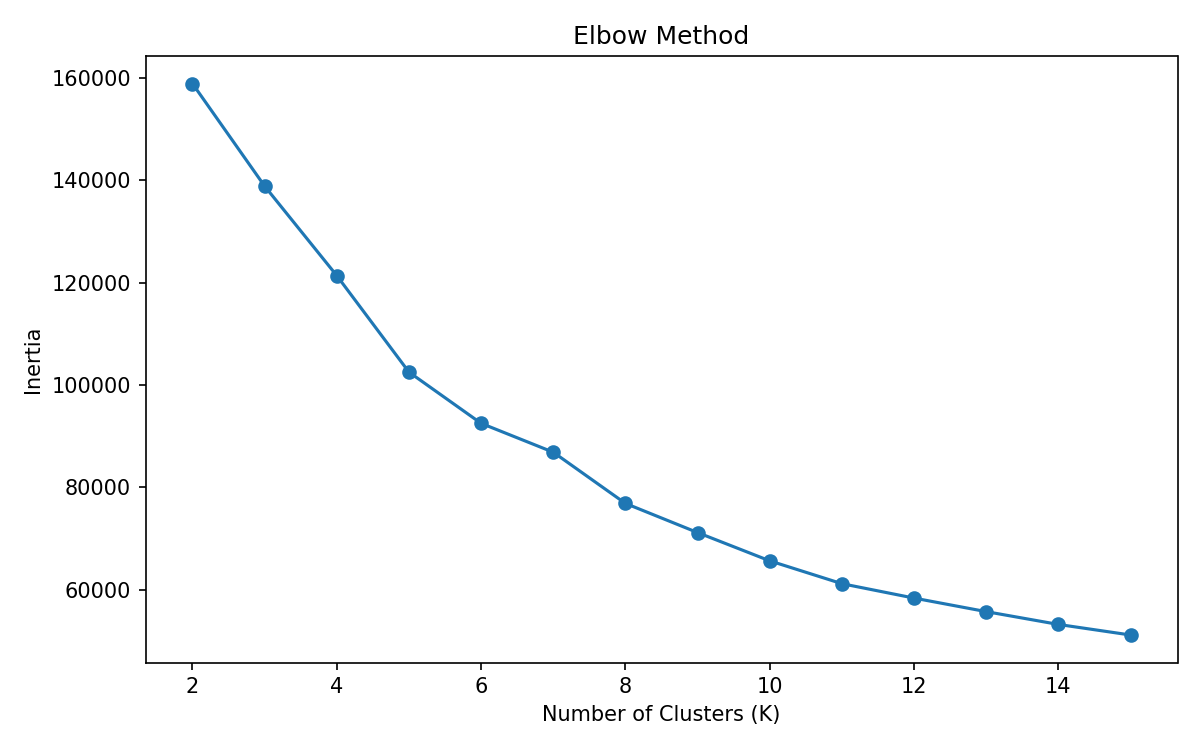
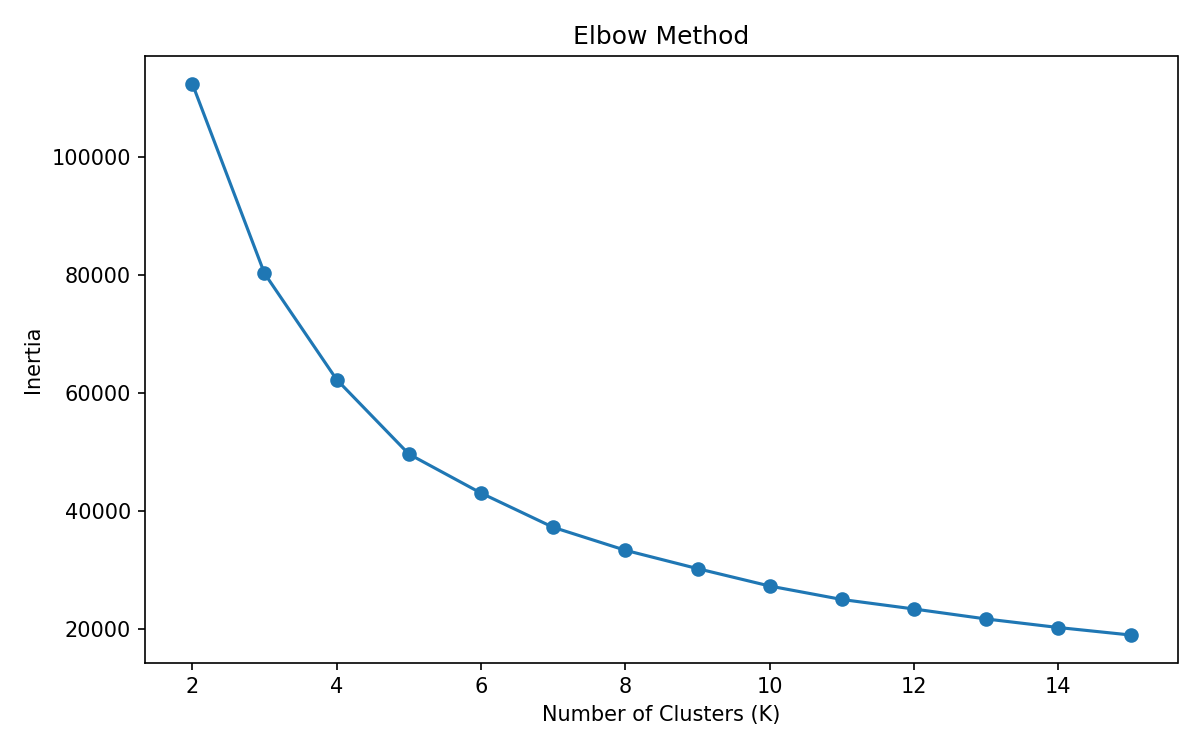
Add skip option and sanitize preprocessing
Add a --skip CLI to main_pipeline (with aliases 1..4, stepN, or run_stepN.py) and skip logic for individual pipeline steps; update run_pipeline.bat to prompt for skips and pass them to main_pipeline. Harden preprocessing and feature extraction: introduce sanitize_text_series, ensure expected columns exist, normalize and strip text fields, filter out empty/placeholder lyrics, provide deterministic fallbacks for missing titles/artists/ids, and avoid unnecessary astype conversions. Also fix feature extraction to handle NaN lyrics. Regenerate model artifacts and report images (kmeans, scaler, elbow/silhouette plots) and update compiled bytecode.

diff --git a/src/preprocessing/preprocess.py b/src/preprocessing/preprocess.py
@@ -31,7 +31,7 @@ def detect_app_root(start: Path) -> Path:
 # Set up file paths for input and output
 APP_ROOT = detect_app_root(Path.cwd())  # Find the main project folder
 RAW_CSV = APP_ROOT / 'data' / 'raw' / 'songs_with_attributes_and_lyrics.csv'  # Where the original Spotify data is stored
-OUT_CSV = APP_ROOT / 'data' / 'processed' / 'spotify_clean.csv'  # Where we'll save the cleaned data
+OUT_CSV = APP_ROOT / 'data' / 'processed' / 'clean_lyrics_dataset.csv'  # Where we'll save the cleaned data
 CHUNK_SIZE = 50_000  # How many rows to process at once (smaller = less memory used, but slower)
 
 # Print the paths so we can verify they're correct
@@ -113,6 +113,13 @@ def normalize_lyrics(text: str) -> str:
 # Same lyrics always produce the same hash
 def md5_hash(s: str) -> str:
     return hashlib.md5(s.encode('utf-8')).hexdigest()
+
+
+def sanitize_text_series(series: pd.Series) -> pd.Series:
+    cleaned = series.fillna('').astype(str).str.strip()
+    # Convert placeholder null tokens that often appear after CSV parsing/casting.
+    cleaned = cleaned.replace(r'^\s*(nan|none|null|nat)\s*$', '', regex=True)
+    return cleaned
 # Cleaning and streaming passes
 
 # Define which columns to read from the raw CSV file
@@ -129,12 +136,23 @@ def clean_chunk(chunk: pd.DataFrame) -> pd.DataFrame:
     """
     # Rename columns to be clearer: 'name' becomes 'title', 'artists' becomes 'artist'
     chunk = chunk.rename(columns={'name': 'title', 'artists': 'artist'})
-    
-    # Remove any songs that don't have lyrics
-    chunk = chunk[chunk['lyrics'].notna()].copy()
+
+    # Ensure expected columns exist even if a malformed chunk is encountered.
+    for col in ('id', 'title', 'artist', 'lyrics'):
+        if col not in chunk.columns:
+            chunk[col] = ''
+
+    # Normalize obvious NaN/null placeholders early.
+    chunk['id'] = sanitize_text_series(chunk['id'])
+    chunk['title'] = sanitize_text_series(chunk['title'])
+    chunk['artist'] = sanitize_text_series(chunk['artist'])
+    chunk['lyrics'] = sanitize_text_series(chunk['lyrics'])
+
+    # Remove rows without usable lyrics after sanitization.
+    chunk = chunk[chunk['lyrics'] != ''].copy()
 
     # Count how many words are in each song's lyrics
-    chunk['_word_count'] = chunk['lyrics'].astype(str).str.split().str.len()
+    chunk['_word_count'] = chunk['lyrics'].str.split().str.len()
     # Keep only songs with at least 30 words (filters out very short/incomplete lyrics)
     chunk = chunk[chunk['_word_count'] >= 30].copy()
     
@@ -144,14 +162,14 @@ def clean_chunk(chunk: pd.DataFrame) -> pd.DataFrame:
     chunk = chunk[chunk['_ascii'] >= 0.90].copy()
 
     # Clean up artist names: make lowercase, remove brackets and quotes, fix spacing
-    chunk['artist'] = chunk['artist'].astype(str).str.lower()
+    chunk['artist'] = chunk['artist'].str.lower()
     chunk['artist'] = chunk['artist'].str.replace(r'\[|\]', '', regex=True)
     chunk['artist'] = chunk['artist'].str.replace("'", '', regex=False)
     chunk['artist'] = chunk['artist'].str.replace(r'\s+', ' ', regex=True).str.strip()
 
     # Create a standardized version of the song title (for finding duplicates)
     # Removes punctuation, makes lowercase, etc.
-    chunk['title'] = chunk['title'].astype(str)
+    chunk['title'] = chunk['title'].str.strip()
     chunk['normalized_title'] = chunk['title'].map(normalize_title_strong)
 
     # Create a standardized version of the artist name (also for finding duplicates)
@@ -159,14 +177,26 @@ def clean_chunk(chunk: pd.DataFrame) -> pd.DataFrame:
     chunk['normalized_artist'] = chunk['normalized_artist'].str.replace(r'[^A-Za-z0-9 ]+', ' ', regex=True)
     chunk['normalized_artist'] = chunk['normalized_artist'].str.replace(r'\s+', ' ', regex=True).str.strip()
 
+    # Keep deterministic fallbacks for rows with missing metadata.
+    chunk['normalized_title'] = chunk['normalized_title'].replace('', 'unknown_title')
+    chunk['normalized_artist'] = chunk['normalized_artist'].replace('', 'unknown_artist')
+
+    # Build deterministic fallback IDs for blank/malformed id values.
+    missing_id = chunk['id'] == ''
+    if missing_id.any():
+        chunk.loc[missing_id, 'id'] = 'missing_id_' + chunk.loc[missing_id].index.astype(str)
+
     # Clean up the lyrics text while keeping line breaks
-    chunk['lyrics'] = chunk['lyrics'].astype(str).map(normalize_lyrics)
+    chunk['lyrics'] = chunk['lyrics'].map(normalize_lyrics)
 
     # Create another version of lyrics with everything lowercase and no punctuation
     # This helps detect duplicate songs even if the lyrics formatting is slightly different
     chunk['normalized_lyrics'] = chunk['lyrics'].str.lower()
     chunk['normalized_lyrics'] = chunk['normalized_lyrics'].str.replace(r'[^\\w\\s]', ' ', regex=True)
     chunk['normalized_lyrics'] = chunk['normalized_lyrics'].str.replace(r'\\s+', ' ', regex=True).str.strip()
+
+    # Drop rows that became empty after final lyrics normalization.
+    chunk = chunk[chunk['normalized_lyrics'] != ''].copy()
 
     # Create a unique key combining title + artist to identify duplicate songs
     chunk['_comp_key'] = chunk['normalized_title'].fillna('') + '_' + chunk['normalized_artist'].fillna('')

diff --git a/src/preprocessing/spotify_preprocess.py b/src/preprocessing/spotify_preprocess.py
@@ -71,6 +71,12 @@ def md5_hash(s: str) -> str:
     return hashlib.md5(s.encode('utf-8')).hexdigest()
 
 
+def sanitize_text_series(series: pd.Series) -> pd.Series:
+    cleaned = series.fillna('').astype(str).str.strip()
+    cleaned = cleaned.replace(r'^\s*(nan|none|null|nat)\s*$', '', regex=True)
+    return cleaned
+
+
 # -----------------------------------------------------------------------------
 # Core processing
 # -----------------------------------------------------------------------------
@@ -92,30 +98,49 @@ def detect_app_root(start: Path) -> Path:
 
 def clean_chunk(chunk: pd.DataFrame) -> pd.DataFrame:
     chunk = chunk.rename(columns={'name': 'title', 'artists': 'artist'})
-    chunk = chunk[chunk['lyrics'].notna()].copy()
 
-    chunk['_word_count'] = chunk['lyrics'].astype(str).str.split().str.len()
+    for col in ('id', 'title', 'artist', 'lyrics'):
+        if col not in chunk.columns:
+            chunk[col] = ''
+
+    chunk['id'] = sanitize_text_series(chunk['id'])
+    chunk['title'] = sanitize_text_series(chunk['title'])
+    chunk['artist'] = sanitize_text_series(chunk['artist'])
+    chunk['lyrics'] = sanitize_text_series(chunk['lyrics'])
+
+    chunk = chunk[chunk['lyrics'] != ''].copy()
+
+    chunk['_word_count'] = chunk['lyrics'].str.split().str.len()
     chunk = chunk[chunk['_word_count'] >= 30].copy()
     chunk['_ascii'] = chunk['lyrics'].astype(str).map(ascii_ratio)
     chunk = chunk[chunk['_ascii'] >= 0.90].copy()
 
-    chunk['artist'] = chunk['artist'].astype(str).str.lower()
+    chunk['artist'] = chunk['artist'].str.lower()
     chunk['artist'] = chunk['artist'].str.replace(r'\[|\]', '', regex=True)
     chunk['artist'] = chunk['artist'].str.replace("'", '', regex=False)
     chunk['artist'] = chunk['artist'].str.replace(r'\s+', ' ', regex=True).str.strip()
 
-    chunk['title'] = chunk['title'].astype(str)
+    chunk['title'] = chunk['title'].str.strip()
     chunk['normalized_title'] = chunk['title'].map(normalize_title_strong)
 
     chunk['normalized_artist'] = chunk['artist'].str.lower()
     chunk['normalized_artist'] = chunk['normalized_artist'].str.replace(r'[^A-Za-z0-9 ]+', ' ', regex=True)
     chunk['normalized_artist'] = chunk['normalized_artist'].str.replace(r'\s+', ' ', regex=True).str.strip()
 
+    chunk['normalized_title'] = chunk['normalized_title'].replace('', 'unknown_title')
+    chunk['normalized_artist'] = chunk['normalized_artist'].replace('', 'unknown_artist')
+
+    missing_id = chunk['id'] == ''
+    if missing_id.any():
+        chunk.loc[missing_id, 'id'] = 'missing_id_' + chunk.loc[missing_id].index.astype(str)
+
     chunk['lyrics'] = chunk['lyrics'].astype(str).map(normalize_lyrics)
 
     chunk['normalized_lyrics'] = chunk['lyrics'].str.lower()
     chunk['normalized_lyrics'] = chunk['normalized_lyrics'].str.replace(r'[^\w\s]', ' ', regex=True)
     chunk['normalized_lyrics'] = chunk['normalized_lyrics'].str.replace(r'\s+', ' ', regex=True).str.strip()
+
+    chunk = chunk[chunk['normalized_lyrics'] != ''].copy()
 
     chunk['_comp_key'] = chunk['normalized_title'].fillna('') + '_' + chunk['normalized_artist'].fillna('')
     chunk['_lyrics_hash'] = chunk['lyrics'].map(md5_hash)

diff --git a/main_pipeline.py b/main_pipeline.py
@@ -1,5 +1,6 @@
 import subprocess
 import sys
+from argparse import ArgumentParser
 
 
 steps = [
@@ -10,8 +11,41 @@ steps = [
 ]
 
 
-def run() -> None:
+def _resolve_skips(skip_values: list[str]) -> set[str]:
+    alias_to_step = {
+        "1": "run_step1.py",
+        "2": "run_step2.py",
+        "3": "run_step3.py",
+        "4": "run_step4.py",
+        "step1": "run_step1.py",
+        "step2": "run_step2.py",
+        "step3": "run_step3.py",
+        "step4": "run_step4.py",
+        "run_step1.py": "run_step1.py",
+        "run_step2.py": "run_step2.py",
+        "run_step3.py": "run_step3.py",
+        "run_step4.py": "run_step4.py",
+    }
+    resolved: set[str] = set()
+    for value in skip_values:
+        key = value.strip().lower()
+        if key in alias_to_step:
+            resolved.add(alias_to_step[key])
+        else:
+            raise SystemExit(
+                f"Invalid --skip value: {value}. Use step1..step4, 1..4, or run_stepN.py."
+            )
+    return resolved
+
+
+def run(skip_values: list[str] | None = None) -> None:
+    skip_steps = _resolve_skips(skip_values or [])
+
     for step in steps:
+        if step in skip_steps:
+            print(f"\nSKIPPED: {step}\n")
+            continue
+
         print(f"\nRUNNING: {step}\n")
 
         result = subprocess.run([sys.executable, step])
@@ -24,4 +58,12 @@ def run() -> None:
 
 
 if __name__ == "__main__":
-    run()
+    parser = ArgumentParser(description="Run the lyrics pipeline step-by-step.")
+    parser.add_argument(
+        "--skip",
+        nargs="*",
+        default=[],
+        help="Steps to skip (e.g. step2 run_step3.py 4)",
+    )
+    args = parser.parse_args()
+    run(skip_values=args.skip)

diff --git a/src/features/extract_features.py b/src/features/extract_features.py
@@ -74,7 +74,7 @@ def extract_features(lyrics):
 def build_feature_matrix(df: pd.DataFrame) -> pd.DataFrame:
     validate_columns(df)
 
-    features = df["lyrics"].apply(extract_features)
+    features = df["lyrics"].fillna("").astype(str).apply(extract_features)
 
     feature_matrix = pd.DataFrame(
         features.tolist(),
